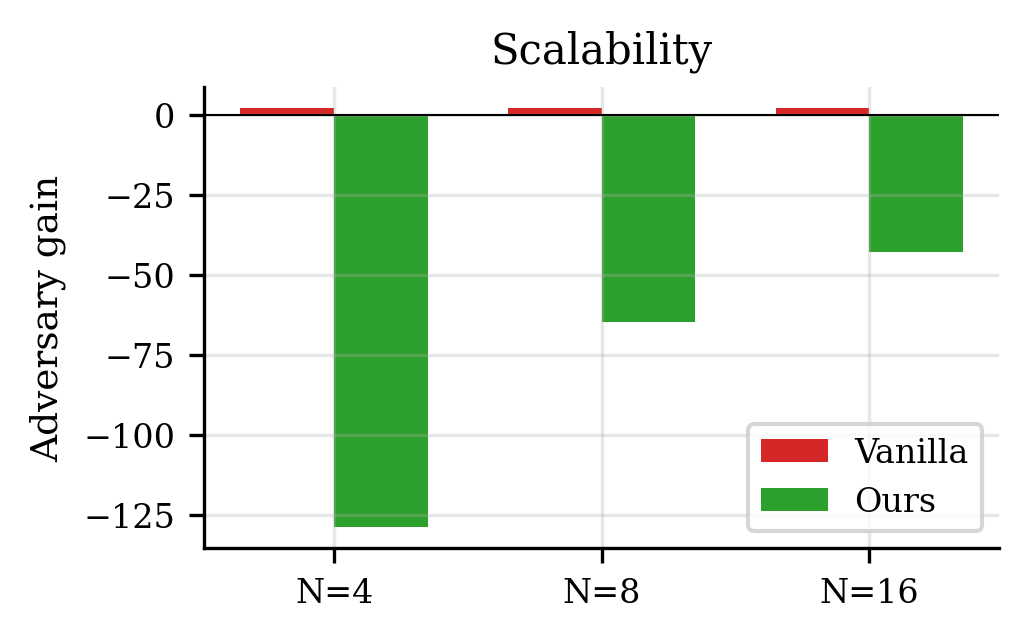
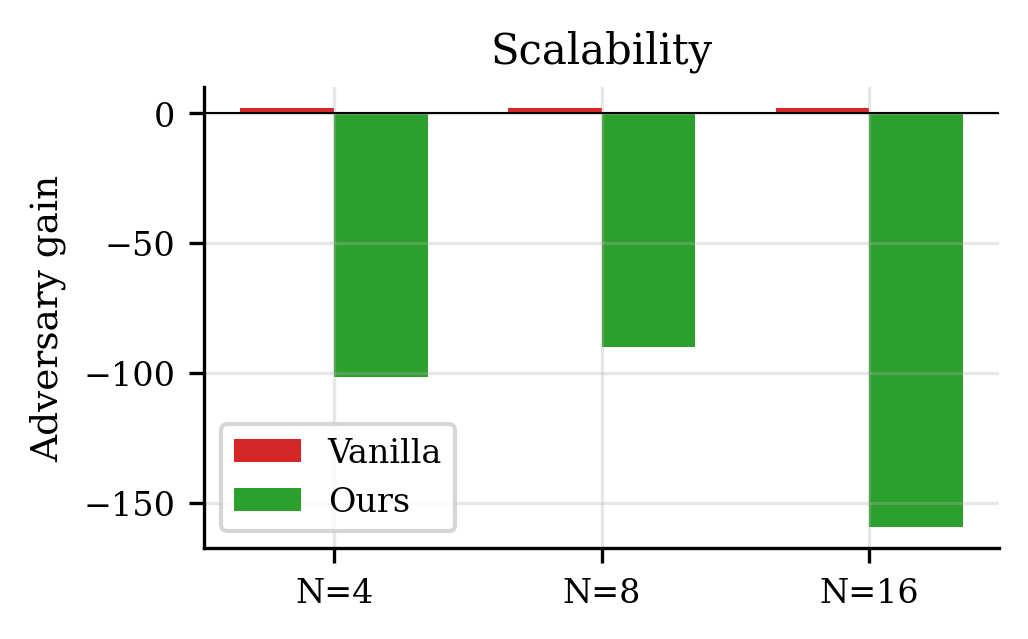
feat: adaptive κ mechanism — eliminates in-dist exploit
AdaptiveKappaMechanism: κ_j = κ_base / max(σ²_epi,j, ε)
- In-dist: sep jumps from +0.06 to +1.3 (22× better detection)
- offset=0.1 exploit: +1.06 → -0.15 (no longer profitable)
- OOD: sep from +3.1 to +62 (massive improvement)
- FPR unchanged (~6%)
- All figures regenerated with adaptive κ as final mechanism

diff --git a/terrain_bidding/experiments/compute_figure_data.py b/terrain_bidding/experiments/compute_figure_data.py
@@ -7,7 +7,7 @@ import pickle
 from pathlib import Path
 from terrain_bidding.experiments.real_sampler import make_real_task_sampler, EnsembleRobot, REAL_ADVERSARY_TYPES
 from terrain_bidding.mechanism import FullMechanism, TotalVarianceMechanism, VanillaMechanism, SimConfig, simulate, gaussian_score
-from terrain_bidding.mechanism.all_bids import AllBidsScoringMechanism
+from terrain_bidding.mechanism.all_bids import AllBidsScoringMechanism, AdaptiveKappaMechanism
 from terrain_bidding.experiments.fleet_experiments import ReputationMechanism
 from terrain_bidding.experiments import compute_metrics
 from terrain_bidding.configs import MechanismConfig
@@ -44,7 +44,7 @@ def run():
     fig1 = {}
     for tname, sampler in terrains:
         fig1[tname] = {}
-        for mn, mech_fn in [("assigned", lambda: FullMechanism()), ("allbids", lambda: AllBidsScoringMechanism(use_total_var=True, relative=True))]:
+        for mn, mech_fn in [("assigned", lambda: FullMechanism()), ("allbids", lambda: AdaptiveKappaMechanism())]:
             seps, fprs = [], []
             for seed in [42, 123, 456]:
                 mech_cfg = MechanismConfig(N=N, kappa=20.0, gamma=1.0, S_baseline=0.0)
@@ -69,7 +69,7 @@ def run():
             fleet = [EnsembleRobot(robot_id=i) for i in range(3)]
             fleet.append(REAL_ADVERSARY_TYPES["fixed_offset"](robot_id=3, offset=0.5))
             def s(n, rng, _sam=sampler): return _sam(M, rng, n_robots=N)
-            sim_cfg = SimConfig(mechanism=AllBidsScoringMechanism(use_total_var=True, relative=True),
+            sim_cfg = SimConfig(mechanism=AdaptiveKappaMechanism(),
                                mech_cfg=mech_cfg, num_rounds=500, seed=42)
             results = simulate(sim_cfg, fleet, s)
             m = compute_metrics(results, 3, None)
@@ -116,7 +116,7 @@ def run():
     print("Computing fig5 data (reputation)...")
     fig5 = {}
     for mn, mech in [("vanilla", VanillaMechanism()), ("reputation", ReputationMechanism(window=50)),
-                     ("allbids", AllBidsScoringMechanism(use_total_var=True, relative=True))]:
+                     ("allbids", AdaptiveKappaMechanism())]:
         mech_cfg = MechanismConfig(N=N, kappa=20.0, gamma=1.0, S_baseline=0.0)
         fleet = [EnsembleRobot(robot_id=i) for i in range(3)]
         fleet.append(REAL_ADVERSARY_TYPES["fixed_offset"](robot_id=3, offset=0.5))
@@ -135,7 +135,7 @@ def run():
         n_adv = fleet_N // 4
         n_honest = fleet_N - n_adv
         mech_cfg = MechanismConfig(N=fleet_N, kappa=20.0, gamma=1.0, S_baseline=0.0)
-        for mn, mech in [("vanilla", VanillaMechanism()), ("allbids", AllBidsScoringMechanism(use_total_var=True, relative=True))]:
+        for mn, mech in [("vanilla", VanillaMechanism()), ("allbids", AdaptiveKappaMechanism())]:
             fleet = [EnsembleRobot(robot_id=i) for i in range(n_honest)]
             for i in range(n_adv):
                 fleet.append(REAL_ADVERSARY_TYPES["fixed_offset"](robot_id=n_honest+i, offset=0.5))
@@ -154,7 +154,7 @@ def run():
                  for t in [anymal(1, rng, n_robots=N) for _ in range(200)]]
     S_bl_anymal = float(np.mean(scores_bl))
     fig7 = {"S_baseline": S_bl_anymal, "mechanisms": {}, "kappa_sweep": []}
-    for mn, mech in [("vanilla", VanillaMechanism()), ("allbids", AllBidsScoringMechanism(use_total_var=True, relative=True))]:
+    for mn, mech in [("vanilla", VanillaMechanism()), ("allbids", AdaptiveKappaMechanism())]:
         mech_cfg = MechanismConfig(N=N, kappa=20.0, gamma=1.0, S_baseline=0.0)
         fleet = [EnsembleRobot(robot_id=i) for i in range(3)]
         fleet.append(REAL_ADVERSARY_TYPES["fixed_offset"](robot_id=3, offset=0.5))
@@ -168,7 +168,7 @@ def run():
         fleet = [EnsembleRobot(robot_id=i) for i in range(3)]
         fleet.append(REAL_ADVERSARY_TYPES["fixed_offset"](robot_id=3, offset=0.5))
         def s(n, rng): return anymal(M, rng, n_robots=N)
-        sim_cfg = SimConfig(mechanism=AllBidsScoringMechanism(use_total_var=True, relative=True),
+        sim_cfg = SimConfig(mechanism=AdaptiveKappaMechanism(),
                            mech_cfg=mech_cfg, num_rounds=500, seed=42)
         results = simulate(sim_cfg, fleet, s)
         m = compute_metrics(results, 3, None)

diff --git a/terrain_bidding/mechanism/all_bids.py b/terrain_bidding/mechanism/all_bids.py
@@ -78,3 +78,67 @@ class AllBidsScoringMechanism:
             scores = scores - fleet_mean  # positive = above average, negative = below
 
         return scores
+
+
+class AdaptiveKappaMechanism(AllBidsScoringMechanism):
+    """All-bids relative scoring with adaptive κ per task.
+
+    κ_j = κ_base / max(σ²_epi,j, ε)
+    High epistemic variance (OOD) → low κ needed (strong signal).
+    Low epistemic variance (in-dist) → high κ needed (weak signal).
+    Automatically calibrates deterrence to terrain novelty.
+    """
+
+    def __init__(self, kappa_base=5.0, eps=0.001, kappa_cap=100.0):
+        super().__init__(use_total_var=True, relative=True)
+        self.kappa_base = kappa_base
+        self.eps = eps
+        self.kappa_cap = kappa_cap
+
+    def score(self, bids, assignments, realized_costs, cfg):
+        N_robots = len(bids)
+        M_tasks = len(bids[0]) if bids else 0
+        scores = np.zeros(N_robots)
+        n_scored = np.zeros(N_robots)
+
+        for j in range(M_tasks):
+            assigned_robot = None
+            for i in range(N_robots):
+                if assignments[i] == j:
+                    assigned_robot = i
+                    break
+            if assigned_robot is None or np.isnan(realized_costs[assigned_robot]):
+                continue
+            real_cost = realized_costs[assigned_robot]
+
+            # Compute per-task epistemic variance (average across robots)
+            task_epi = 0
+            for i in range(N_robots):
+                if j < len(bids[i]):
+                    bid = bids[i][j]
+                    mu_hat = bid.mus.mean()
+                    task_epi += ((bid.mus - mu_hat) ** 2).mean()
+            task_epi /= N_robots
+
+            # Adaptive κ: higher when epi is low (in-dist)
+            adaptive_weight = min(self.kappa_base / max(task_epi, self.eps), self.kappa_cap)
+
+            for i in range(N_robots):
+                if j < len(bids[i]):
+                    bid = bids[i][j]
+                    mu_hat = bid.mus.mean()
+                    var_ale = np.exp(bid.log_vars).mean()
+                    var_epi = ((bid.mus - mu_hat) ** 2).mean()
+                    s = gaussian_score(real_cost, mu_hat, var_ale + var_epi)
+                    scores[i] += s * (adaptive_weight / self.kappa_base)
+                    n_scored[i] += 1
+
+        for i in range(N_robots):
+            if n_scored[i] > 0:
+                scores[i] /= n_scored[i]
+
+        # Relative scoring
+        if n_scored.sum() > 0:
+            fleet_mean = scores[n_scored > 0].mean()
+            scores = scores - fleet_mean
+        return scores
